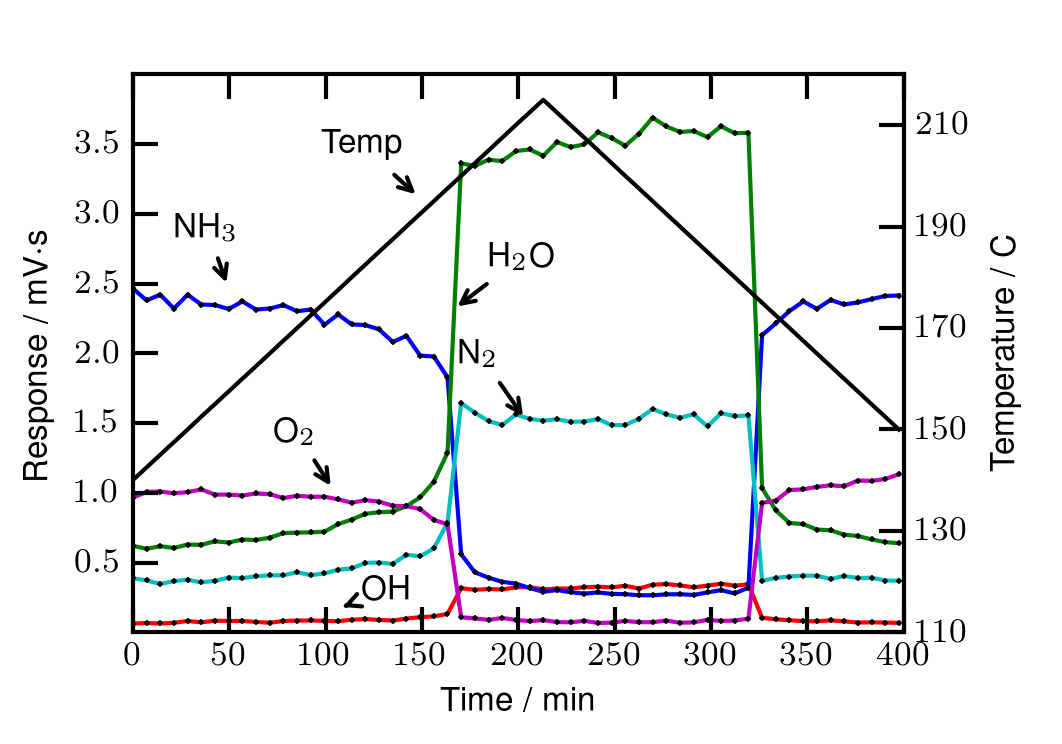
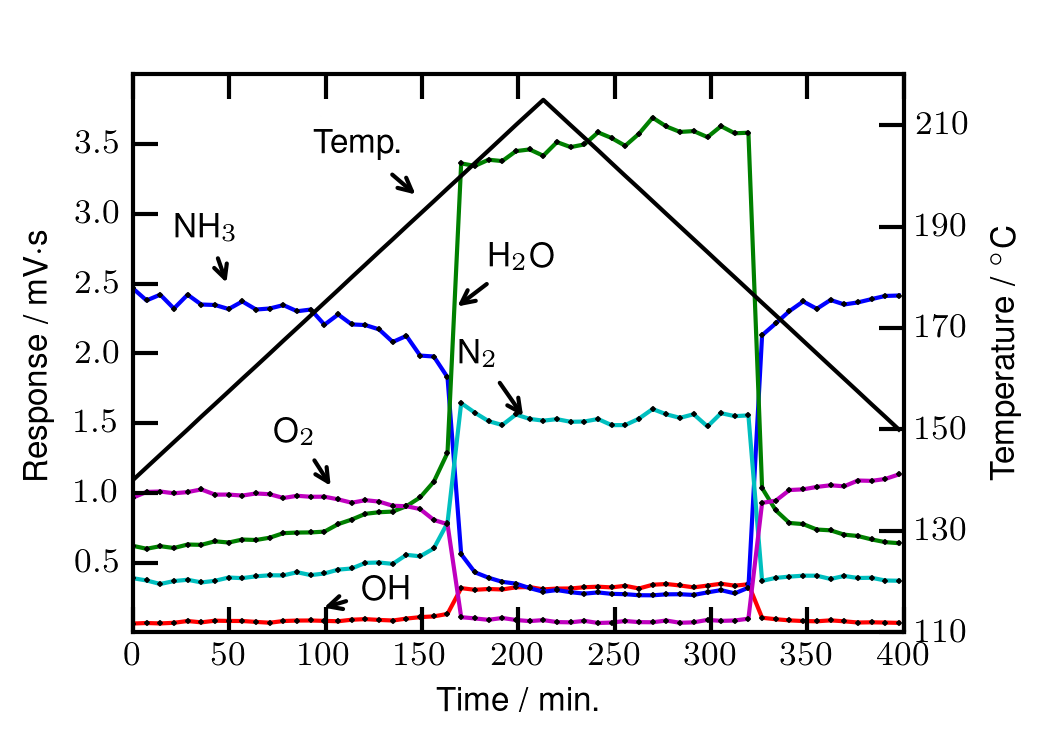
Various bug-fixing and improvements to figures

diff --git a/python_figures/tof_raw.py b/python_figures/tof_raw.py
@@ -56,7 +56,7 @@ axis.set_ylim(0,20)
 axis.set_xlim(0,20)
 axis.set_xticks([2.5,5,7.5,10,12.5,15,17.5,20])
 
-mass_ticks = np.array([1,5,10,15,20,25,30,35,40])
+mass_ticks = np.array([1,2,5,10,15,20,25,30,35,40])
 
 axis3 = axis.twiny()
 #axis3.plot(data['ch'][:,0],data['ch'][:,0]*0,'w-',linewidth=0) #Hack to create an invisible set on the extra x-axis
@@ -67,12 +67,13 @@ axis3.set_xticklabels(mass_ticks)
 axis3.set_xlabel('Mass / amu', fontsize=8)
 axis3.tick_params(direction='in', length=2, width=1, colors='k',labelsize=8,axis='both',pad=3)
 #axis3.ticklabel_format(useOffset=False)
-
+axis.set_yticks((25,50,75,100,125))
 axis.set_ylim(0,150)
 
 p = axis.axvspan(0, 1, facecolor='#26aaf7', alpha=0.25)
-p = axis.axvspan(12.4, 12.45, facecolor='#b6fa77', alpha=0.25)
-p = axis.axvspan(15.75, 17.1, facecolor='#25dd37', alpha=0.25)
+p = axis.axvspan(3, 4.5, facecolor='#25dd37', alpha=0.25)
+p = axis.axvspan(12, 12.45, facecolor='#b6fa77', alpha=0.25)
+
 
 axis.tick_params(direction='in', length=6, width=1, colors='k',labelsize=8,axis='both',pad=3)
 axis.set_ylabel('Response / mV', fontsize=8)
@@ -87,39 +88,41 @@ axis.set_yticks((0,10,20,30,40))
 axis.plot(data['ch'][:,0], data['ch'][:,1], 'r-',linewidth=LINEWIDTH)
 p = axis.axvspan(0, 1, facecolor='#26aaf7', alpha=0.25)
 axis.set_xlim(0,1)
-axis.set_ylim(0,150)
+axis.set_ylim(0,50)
 axis.set_xticks([0.2,0.4,0.6,0.8])
 axis.tick_params(direction='in', length=6, width=1, colors='k',labelsize=8,axis='both',pad=3)
 
 
 axis = plt.subplot(gs[1,1])
 axis.set_ylabel('')
-axis.set_yticks((25,50,75,100,125))
-#axis.set_xticks((12,12.5))
+axis.set_yticks((5,10,15,20))
+axis.set_xticks((3.25,3.75,4.25))
 axis.plot(data['ch'][:,0], data['ch'][:,1], 'r-',linewidth=LINEWIDTH)
-axis.set_xlim(12.4,12.45)
-axis.set_ylim(0,150)
-axis.set_xticks([12.4,12.425,12.45])
-axis.set_xlabel('Flight Time / $\mu$s', fontsize=8)
-axis.ticklabel_format(useOffset=False)
-p = axis.axvspan(12.4, 12.45, facecolor='#b6fa77', alpha=0.25)
+p = axis.axvspan(3.0, 4.5, facecolor='#25dd37', alpha=0.25)
+axis.set_xlim(3,4.5)
+axis.set_ylim(0,25)
 axis.tick_params(direction='in', length=6, width=1, colors='k',labelsize=8,axis='both',pad=3)
-axis.annotate('OH', xy=(12.4144, 50),  xycoords='data', xytext=(12.42, 60), textcoords='data', arrowprops=arrow, horizontalalignment='right', verticalalignment='top',fontsize=font,)
-axis.annotate('NH$_3$', xy=(12.43, 70),  xycoords='data', xytext=(12.43, 80), textcoords='data', arrowprops=arrow, horizontalalignment='right', verticalalignment='top',fontsize=font,)
+axis.ticklabel_format(useOffset=False)
+axis.annotate('H', xy=(3.2, 10),  xycoords='data', xytext=(3.5, 15), textcoords='data', arrowprops=arrow, horizontalalignment='right', verticalalignment='top',fontsize=font,)
+axis.annotate('H$_2$', xy=(4.35, 10),  xycoords='data', xytext=(4.2, 20), textcoords='data', arrowprops=arrow, horizontalalignment='right', verticalalignment='top',fontsize=font,)
+axis.set_xlabel('Flight Time / $\mu$s', fontsize=8)
 
 
 axis = plt.subplot(gs[1,2])
 axis.set_ylabel('')
 axis.set_yticks((25,50,75,100,125))
-axis.set_xticks((15.75,16,17))
+#axis.set_xticks((12,12.5))
 axis.plot(data['ch'][:,0], data['ch'][:,1], 'r-',linewidth=LINEWIDTH)
-p = axis.axvspan(15.75, 17.1, facecolor='#25dd37', alpha=0.25)
-axis.set_xlim(15.75,17.1)
+axis.set_xlim(12,12.45)
 axis.set_ylim(0,150)
-axis.tick_params(direction='in', length=6, width=1, colors='k',labelsize=8,axis='both',pad=3)
+axis.set_xticks([12.1,12.2,12.3,12.4])
 axis.ticklabel_format(useOffset=False)
-axis.annotate('O$_2$', xy=(16.963, 20),  xycoords='data', xytext=(16.95, 30), textcoords='data', arrowprops=arrow, horizontalalignment='right', verticalalignment='top',fontsize=font,)
-axis.annotate('N$_2$', xy=(15.882, 10),  xycoords='data', xytext=(16, 20), textcoords='data', arrowprops=arrow, horizontalalignment='right', verticalalignment='top',fontsize=font,)
+p = axis.axvspan(12, 12.45, facecolor='#b6fa77', alpha=0.25)
+axis.tick_params(direction='in', length=6, width=1, colors='k',labelsize=8,axis='both',pad=3)
+axis.annotate('O', xy=(12.04, 10),  xycoords='data', xytext=(12.04, 67), textcoords='data', arrowprops=arrow, horizontalalignment='right', verticalalignment='top',fontsize=font,)
+axis.annotate('NH$_2$', xy=(12.055, 47),  xycoords='data', xytext=(12.2, 75), textcoords='data', arrowprops=arrow, horizontalalignment='right', verticalalignment='top',fontsize=font,)
+axis.annotate('OH', xy=(12.414, 50),  xycoords='data', xytext=(12.35, 66), textcoords='data', arrowprops=arrow, horizontalalignment='right', verticalalignment='top',fontsize=font,)
+axis.annotate('NH$_3$', xy=(12.425, 85),  xycoords='data', xytext=(12.35, 130), textcoords='data', arrowprops=arrow, horizontalalignment='right', verticalalignment='top',fontsize=font,)
 
 
 

diff --git a/python_figures/ammonia_reactivity.py b/python_figures/ammonia_reactivity.py
@@ -106,7 +106,7 @@ for mass in config.masses:
     axis.plot(treated_data[mass[0]][:,2],treated_data[mass[0]][:,1], colors[i],label=mass[0],markersize=0.75)
     i = i + 1
 
-axis.set_xlabel('Time / min', fontsize=8)
+axis.set_xlabel('Time / min.', fontsize=8)
 axis.set_ylabel('Response / mV$\cdot$s', fontsize=8)
 
 
@@ -117,13 +117,13 @@ font = 8
 axis.annotate('H$_2$O', xy=(165, 2.3),  xycoords='data', xytext=(220, 2.8), textcoords='data', arrowprops=arrow, horizontalalignment='right', verticalalignment='top',fontsize=font,)
 axis.annotate('N$_2$', xy=(205, 1.5),  xycoords='data', xytext=(190, 2.1), textcoords='data', arrowprops=arrow, horizontalalignment='right', verticalalignment='top',fontsize=font,)
 axis.annotate('NH$_3$', xy=(50, 2.45),  xycoords='data', xytext=(55, 3), textcoords='data', arrowprops=arrow, horizontalalignment='right', verticalalignment='top',fontsize=font,)
-axis.annotate('OH', xy=(105, 0.16),  xycoords='data', xytext=(145, 0.4), textcoords='data', arrowprops=arrow, horizontalalignment='right', verticalalignment='top',fontsize=font,)
+axis.annotate('OH', xy=(95, 0.16),  xycoords='data', xytext=(145, 0.4), textcoords='data', arrowprops=arrow, horizontalalignment='right', verticalalignment='top',fontsize=font,)
 axis.annotate('O$_2$', xy=(105, 1.0),  xycoords='data', xytext=(95, 1.55), textcoords='data', arrowprops=arrow, horizontalalignment='right', verticalalignment='top',fontsize=font,)
-axis.annotate('Temp', xy=(150, 3.1),  xycoords='data', xytext=(140, 3.6), textcoords='data', arrowprops=arrow, horizontalalignment='right', verticalalignment='top',fontsize=font,)
+axis.annotate('Temp.', xy=(150, 3.1),  xycoords='data', xytext=(140, 3.6), textcoords='data', arrowprops=arrow, horizontalalignment='right', verticalalignment='top',fontsize=font,)
 
 axis2 = axis.twinx()
 axis2.plot(treated_data[mass[0]][:,2],treated_data[mass[0]][:,0], 'k-',label='Temperature')
-axis2.set_ylabel('Temperature / C', fontsize=8)
+axis2.set_ylabel('Temperature / $^{\circ}$C', fontsize=8)
 axis2.set_yticks((110,130,150,170,190,210))
 
 axis.tick_params(direction='in', length=6, width=1, colors='k',labelsize=8,axis='both',pad=3)
